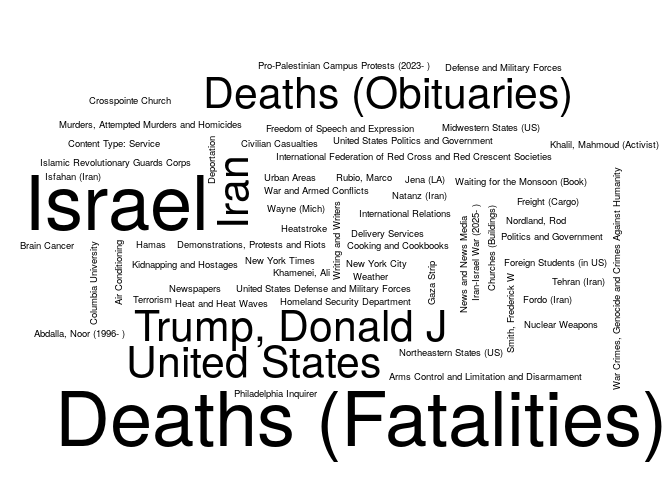
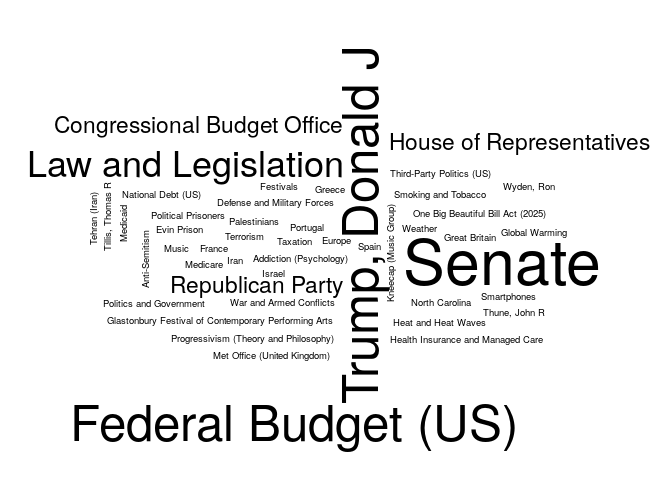
Updating the NYT report

Changed region(s): [[0.0312, 0.0938, 1.0, 0.9688], [0.125, 0.1875, 0.25, 0.2188]]

diff --git a/03-nytimes/README.md b/03-nytimes/README.md
@@ -5,7 +5,7 @@ The following is an example of how to use the [NYTimes
 API](https://developer.nytimes.com/) to get a list of articles related
 to a particular term. Here we are searching articles that include the
 term `"health"`, and that were published up to seven days ago since
-2025-06-23.
+2025-06-30.
 
 ``` r
 # Preparing a function to use the GET method with the NYTimes API
@@ -83,25 +83,25 @@ colnames(tab) <- c("Keyword", "# Articles")
 knitr::kable(tab, row.names = FALSE)
 ```
 
-| Keyword                                     | \# Articles |
-|:--------------------------------------------|------------:|
-| Deaths (Fatalities)                         |          15 |
-| Israel                                      |          15 |
-| Deaths (Obituaries)                         |          10 |
-| Iran                                        |          10 |
-| Israel-Gaza War (2023- )                    |          10 |
-| Trump, Donald J                             |          10 |
-| United States                               |          10 |
-| Abdalla, Noor (1996- )                      |           5 |
-| Air Conditioning                            |           5 |
-| Arms Control and Limitation and Disarmament |           5 |
-| Brain Cancer                                |           5 |
-| Churches (Buildings)                        |           5 |
-| Civilian Casualties                         |           5 |
-| Columbia University                         |           5 |
-| Content Type: Service                       |           5 |
-| Cooking and Cookbooks                       |           5 |
-| Crosspointe Church                          |           5 |
-| Defense and Military Forces                 |           5 |
-| Delivery Services                           |           5 |
-| Demonstrations, Protests and Riots          |           5 |
+| Keyword                                              | \# Articles |
+|:-----------------------------------------------------|------------:|
+| United States Politics and Government                |          30 |
+| Senate                                               |          25 |
+| Federal Budget (US)                                  |          20 |
+| Trump, Donald J                                      |          20 |
+| Law and Legislation                                  |          15 |
+| Congressional Budget Office                          |          10 |
+| House of Representatives                             |          10 |
+| Republican Party                                     |          10 |
+| Addiction (Psychology)                               |           5 |
+| Anti-Semitism                                        |           5 |
+| Defense and Military Forces                          |           5 |
+| Europe                                               |           5 |
+| Evin Prison                                          |           5 |
+| Festivals                                            |           5 |
+| France                                               |           5 |
+| Glastonbury Festival of Contemporary Performing Arts |           5 |
+| Global Warming                                       |           5 |
+| Great Britain                                        |           5 |
+| Greece                                               |           5 |
+| Health Insurance and Managed Care                    |           5 |
